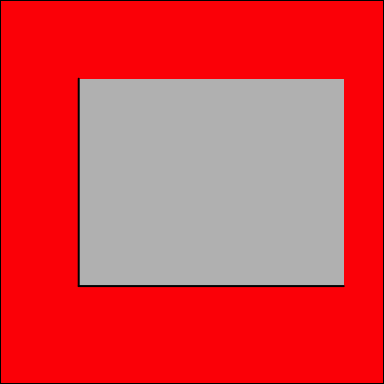
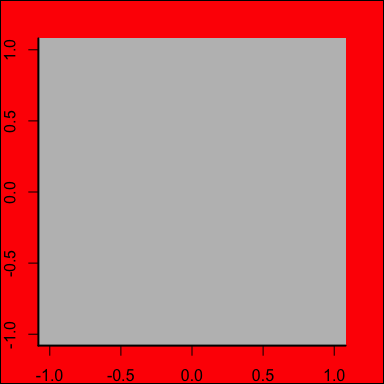
improved doc

diff --git a/README.md b/README.md
@@ -37,15 +37,18 @@ Add a box
 ---------
 
 ``` r
+par(mar=rep(2,4))
 plot0()
 box2(which="figure",lwd=2, col2fill=2)
 box2(side=12, lwd=2, col2fill=8)
+axis(1)
+axis(2)
 ```
 
 ![](inst/assets/img/unnamed-chunk-5-1.png)
 
-My version of the stacked areas
--------------------------------
+A stacked areas chart
+---------------------
 
 ``` r
 x <- data.frame(matrix(runif(200,2,10), 8, 25))
@@ -53,6 +56,28 @@ stackedareas(x)
 ```
 
 ![](inst/assets/img/unnamed-chunk-6-1.png)
+
+Polar plot
+----------
+
+``` r
+polarPlot(1:40, stats::runif(40), to=1.9*pi, col="grey30", border="grey80")
+```
+
+![](inst/assets/img/unnamed-chunk-7-1.png)
+
+Get pretty ranges
+-----------------
+
+``` r
+vec <- stats::runif(20)
+range(vec)
+#> [1] 0.06871627 0.96098954
+prettyRange(vec)
+#> [1] 0.05 1.00
+prettyRange(c(3.85,3.88245))
+#> [1] 3.850 3.885
+```
 
 Interactive functions
 ---------------------
